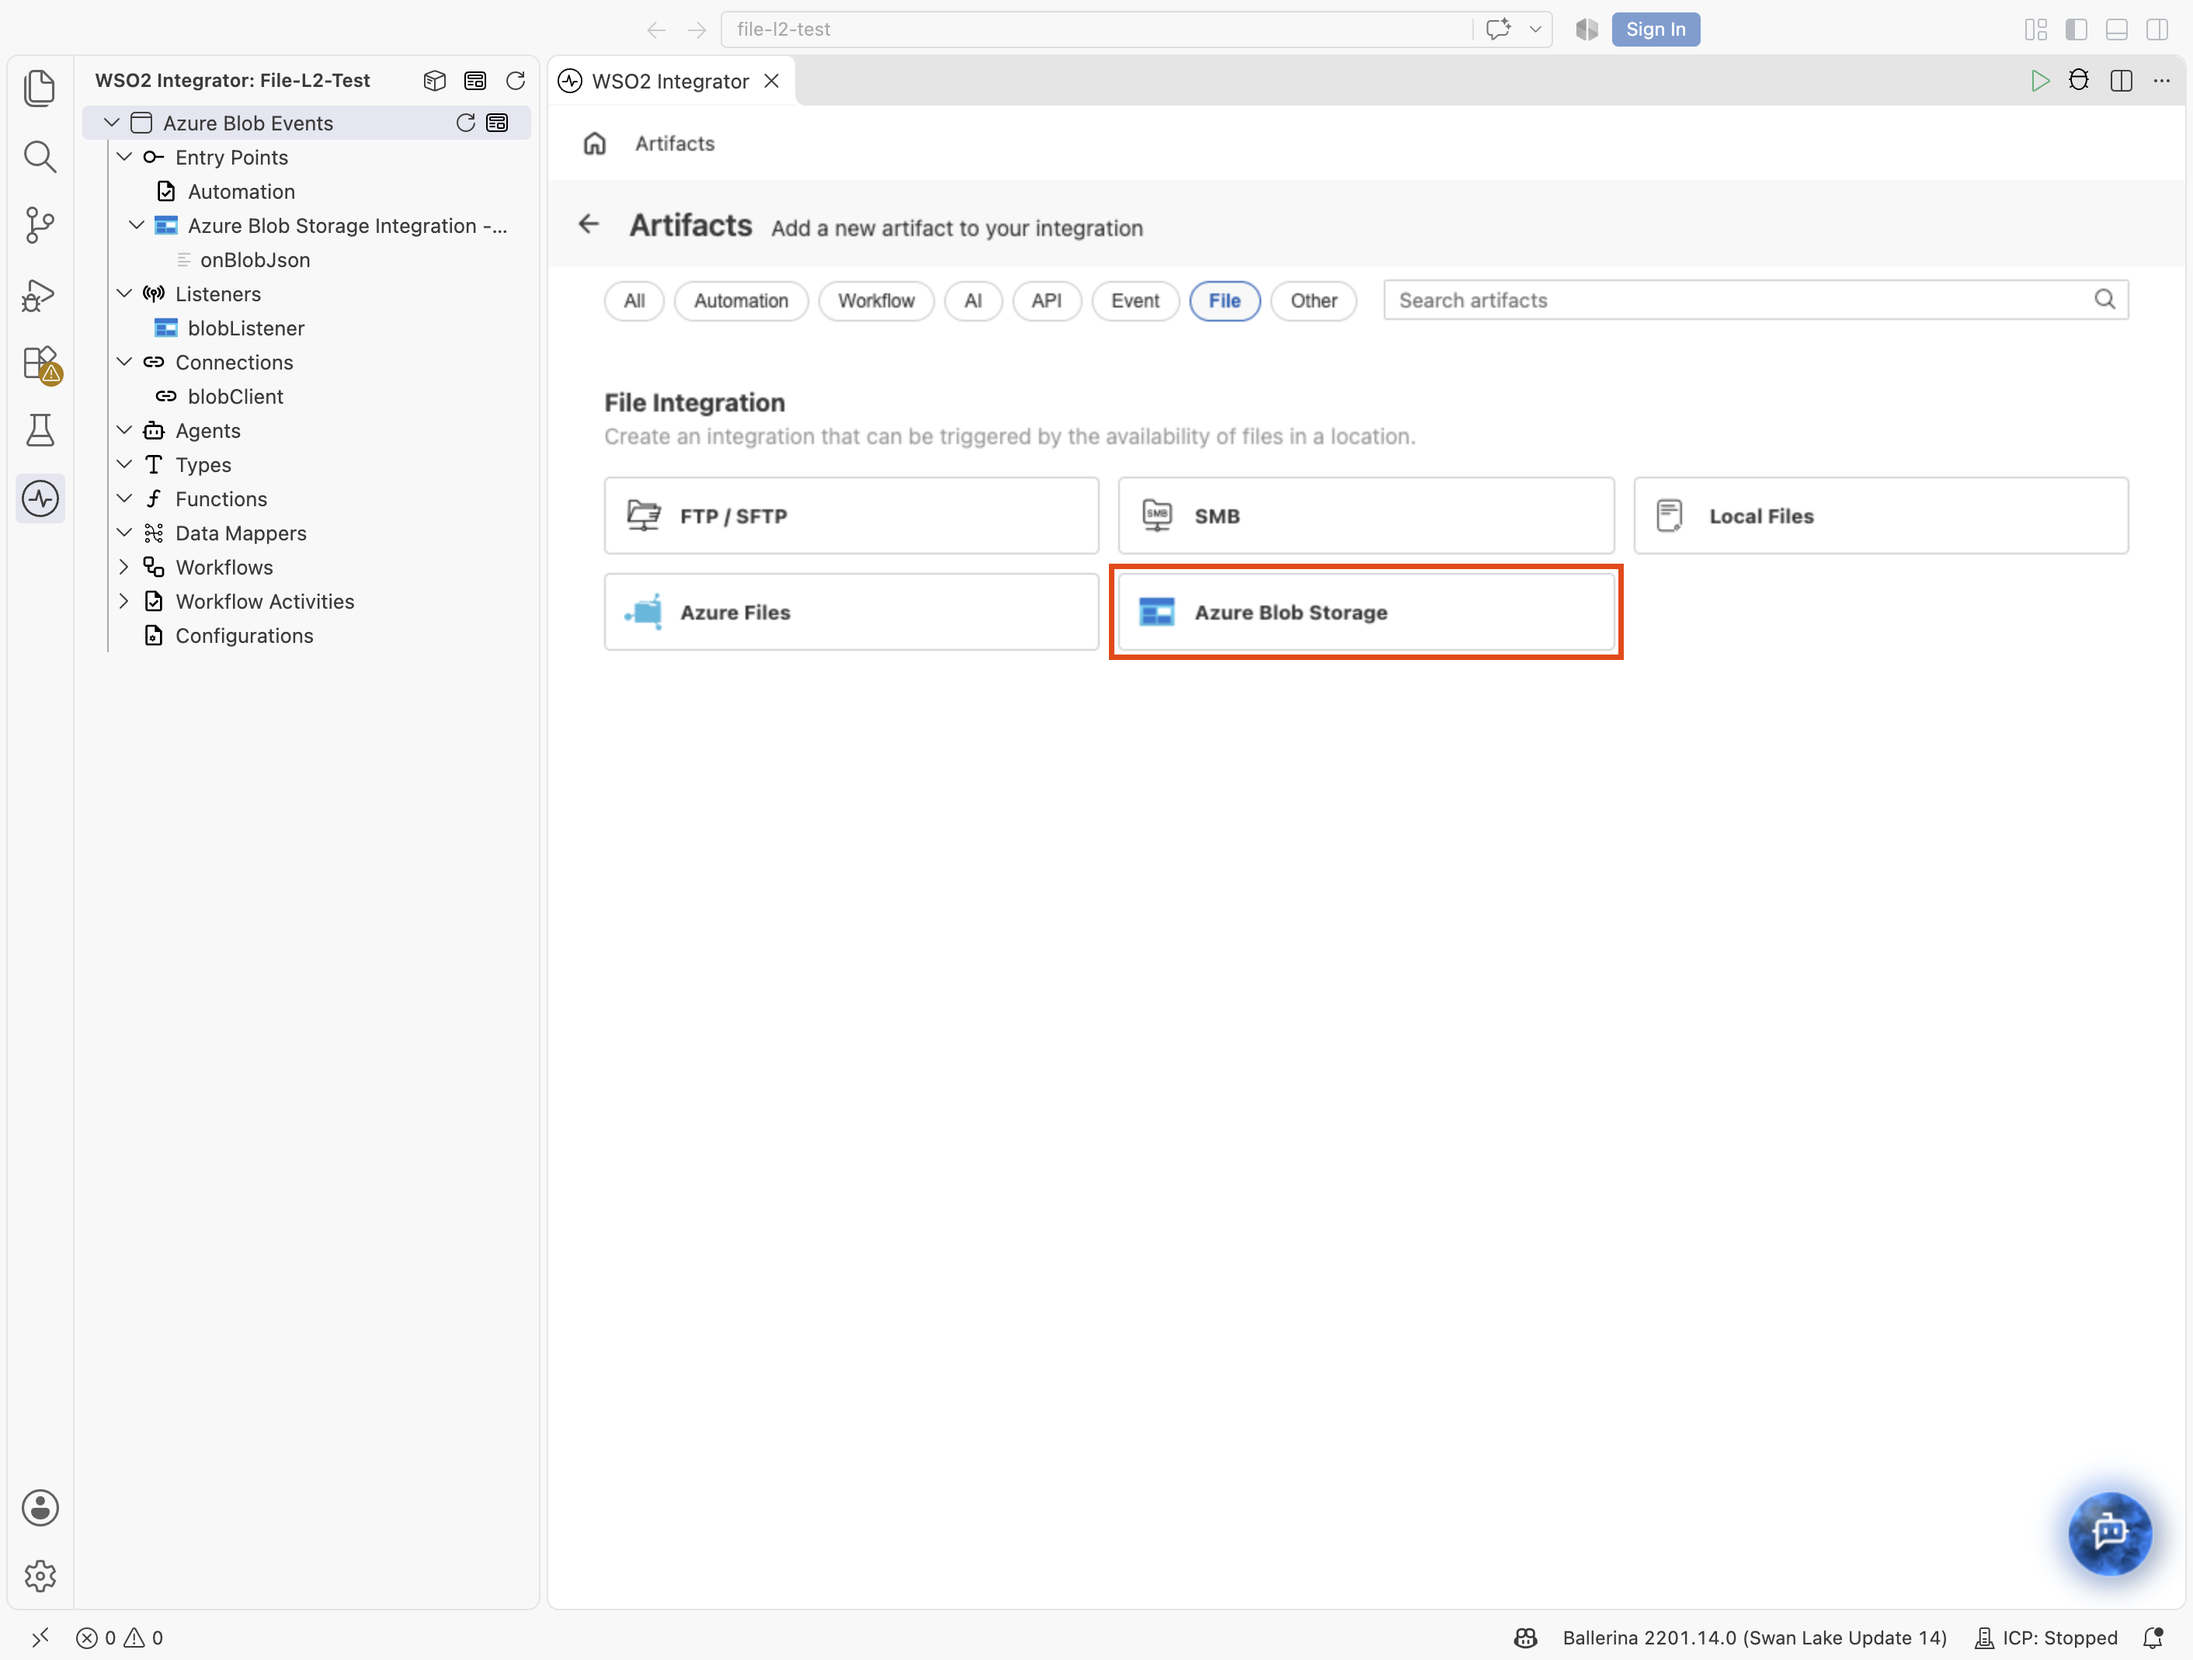
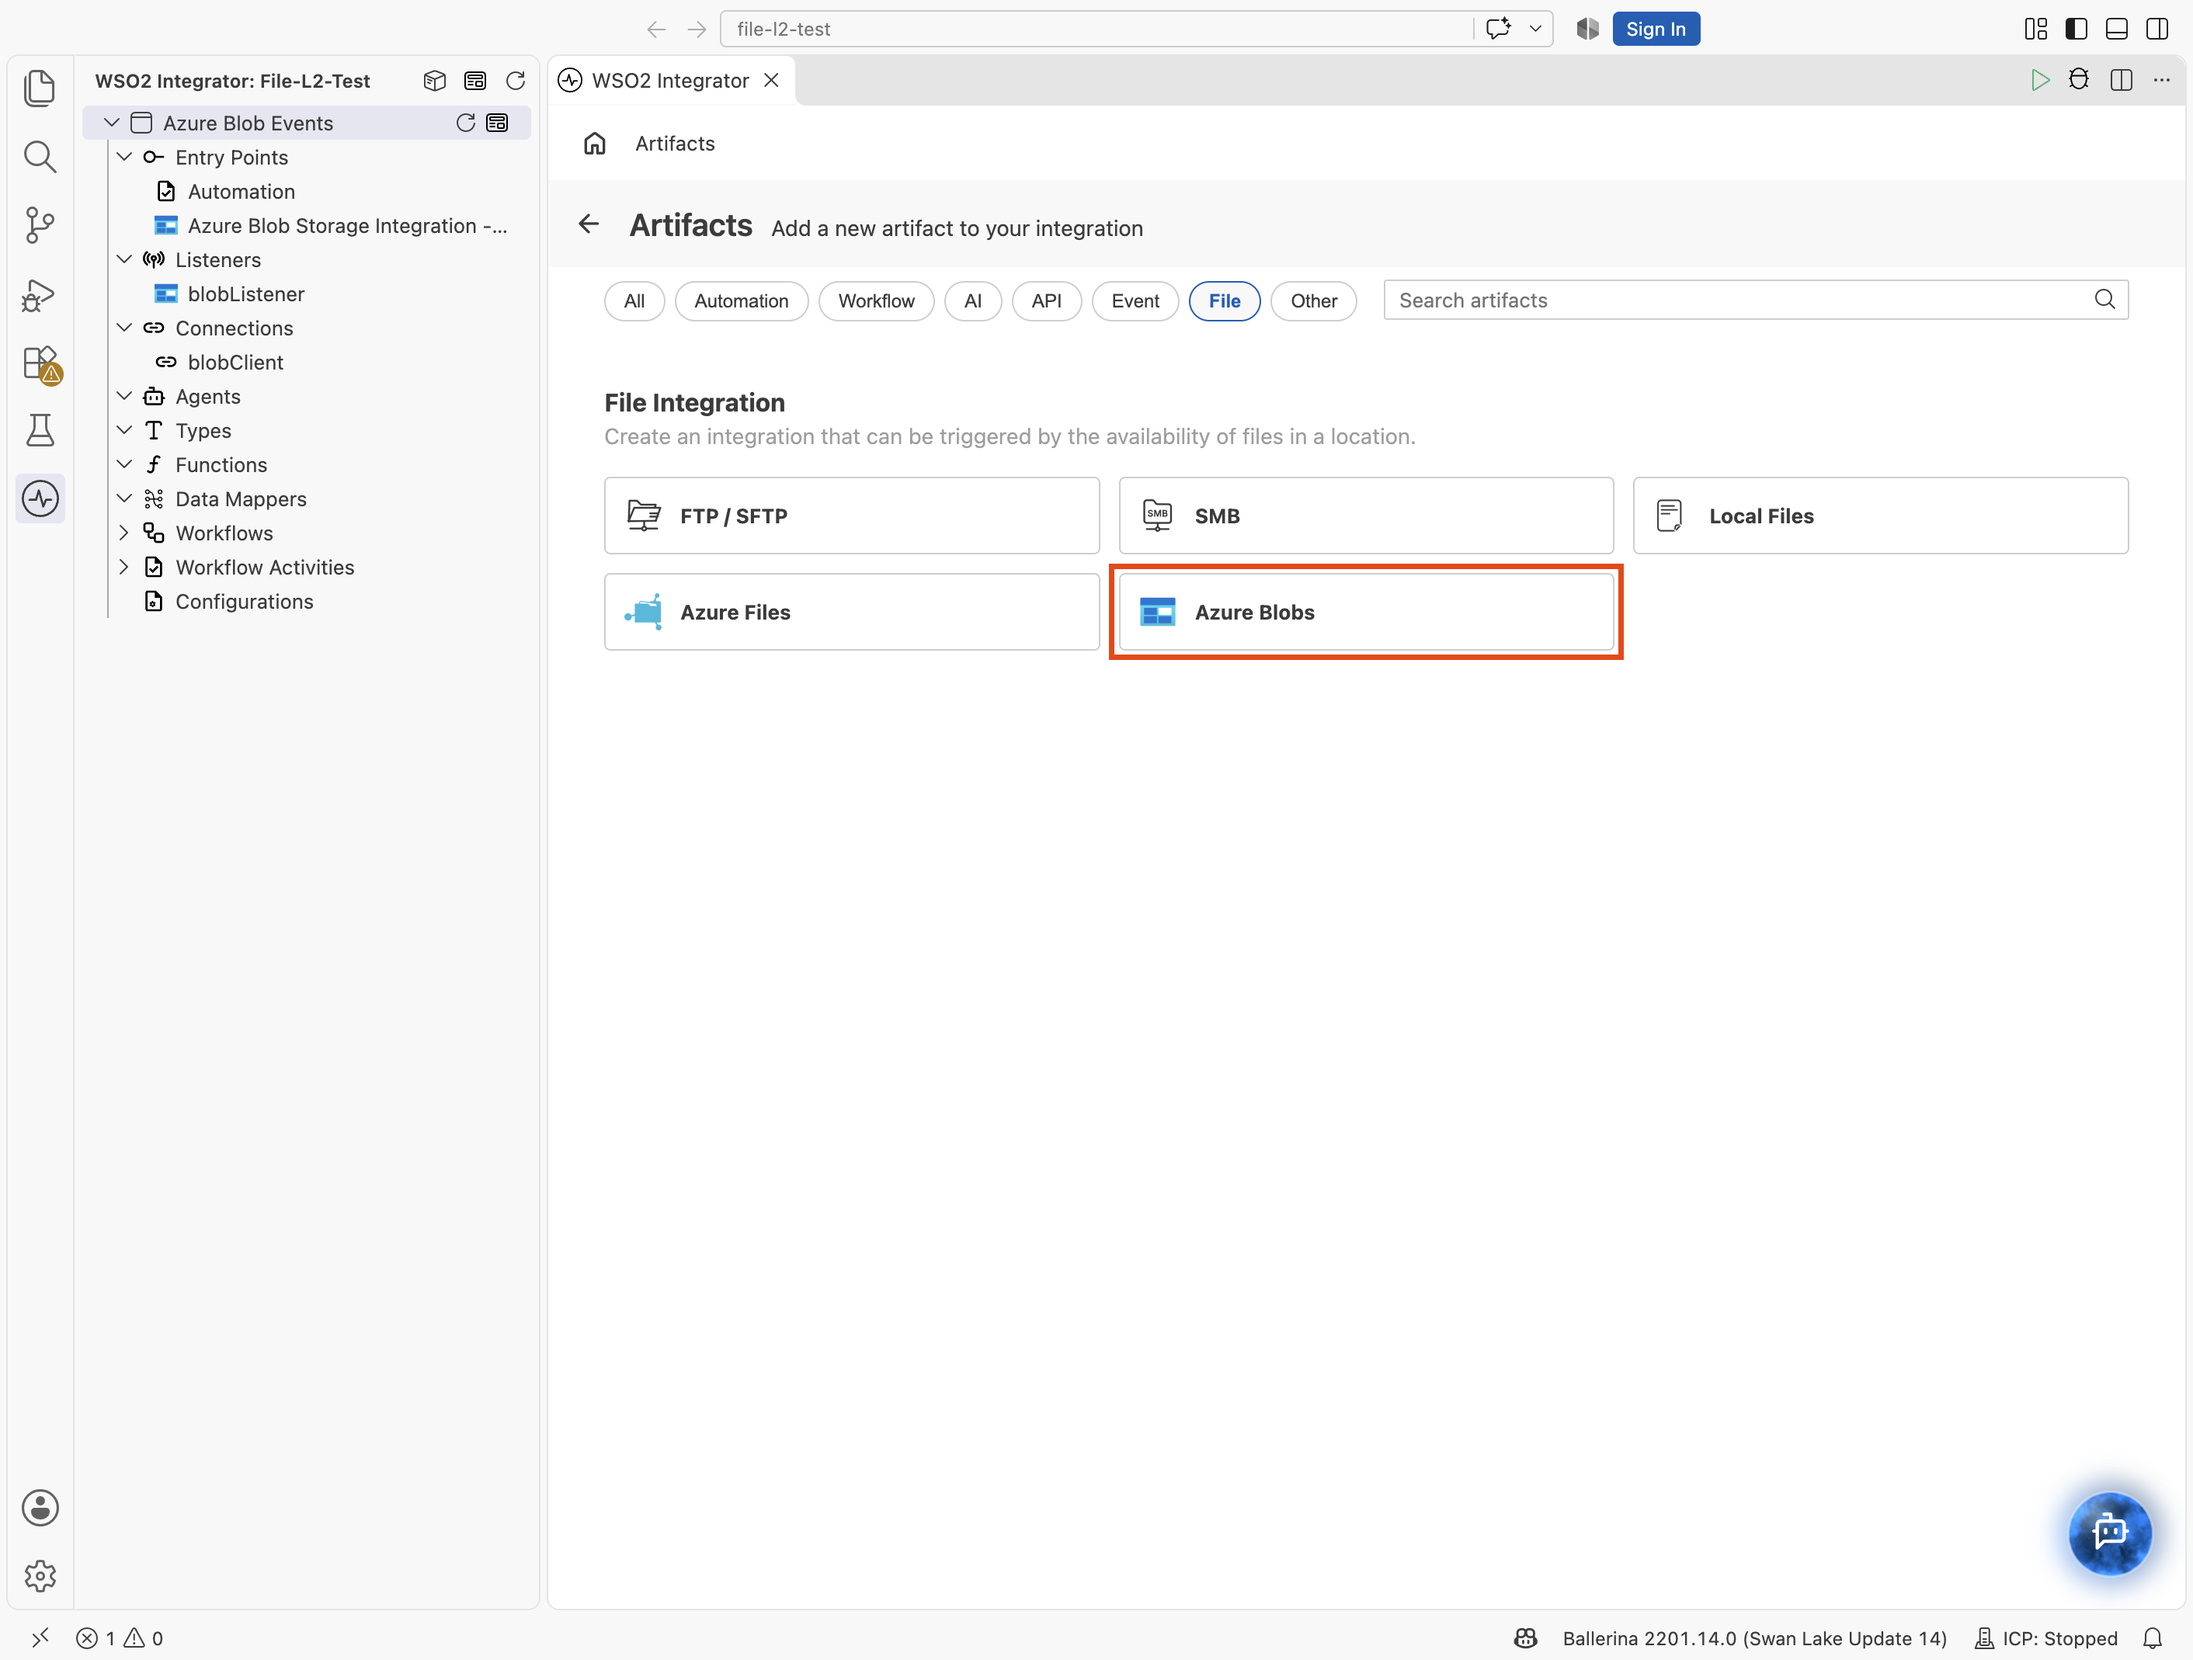
docs(connectors): rename the Azure Blobs card and refresh the trigger screenshots

diff --git a/en/docs/connectors/catalog/storage-file/azure.storage.blob/example.md b/en/docs/connectors/catalog/storage-file/azure.storage.blob/example.md
@@ -208,10 +208,10 @@ In the left panel, select **Configurations**. In the Configurable Variables pane
 #### Step 2: Select the Azure Blob Storage integration type
 
 1. Select the **+** button in the WSO2 Integrator side panel header to open the **New Integration** wizard (on an empty project, the **+ Add Integration or Library** button in the project view opens the same wizard), and continue to the **Type** step.
-2. Scroll to the **File Integration** category, select the **Azure Blob Storage** card, and select **Next**.
+2. Scroll to the **File Integration** category, select the **Azure Blobs** card, and select **Next**.
 
 <ThemedImage
-    alt="New Integration wizard with the Azure Blob Storage card selected"
+    alt="New Integration wizard with the Azure Blobs card selected"
     sources={{
         light: useBaseUrl('/img/connectors/catalog/storage-file/azure.storage.blob/azure_blob_trigger_screenshots_01_new_integration_wizard.png'),
         dark: useBaseUrl('/img/connectors/catalog/storage-file/azure.storage.blob/azure_blob_trigger_screenshots_01_new_integration_wizard.png'),
